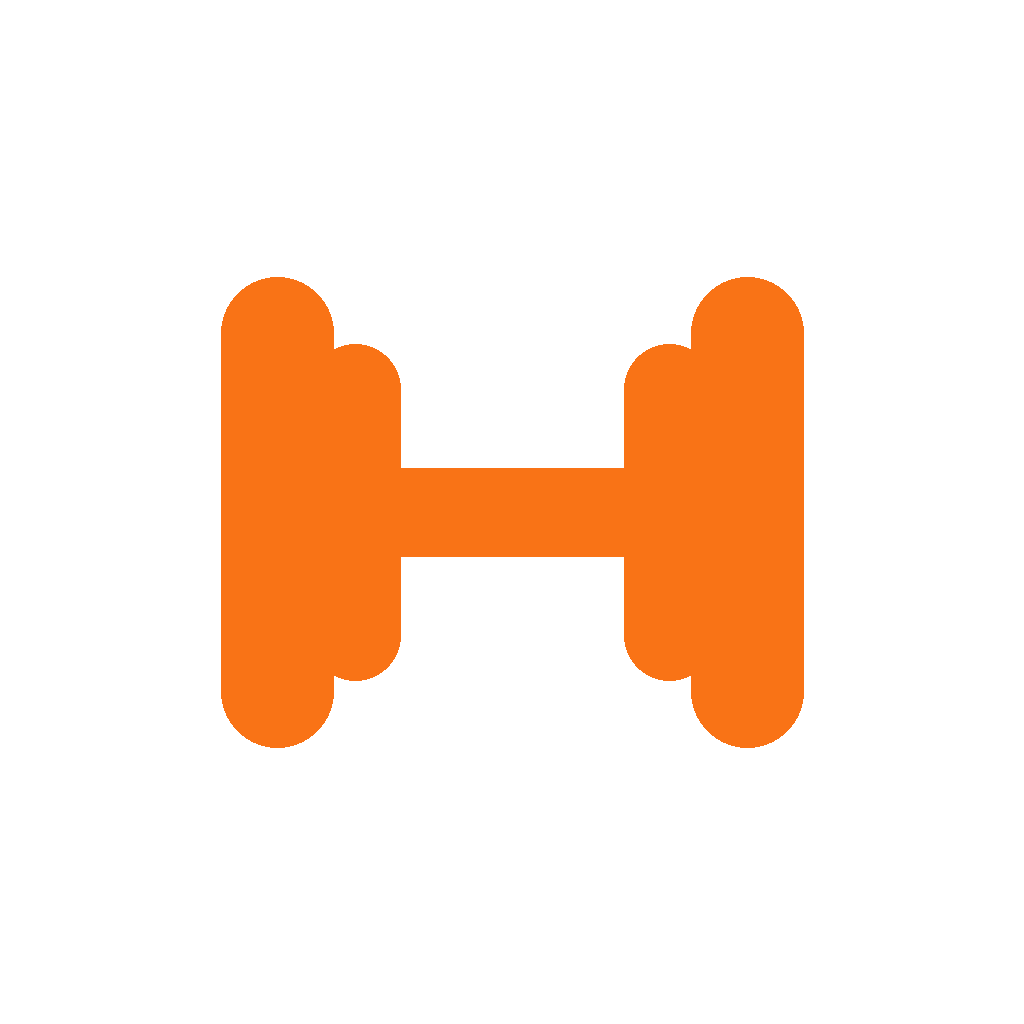
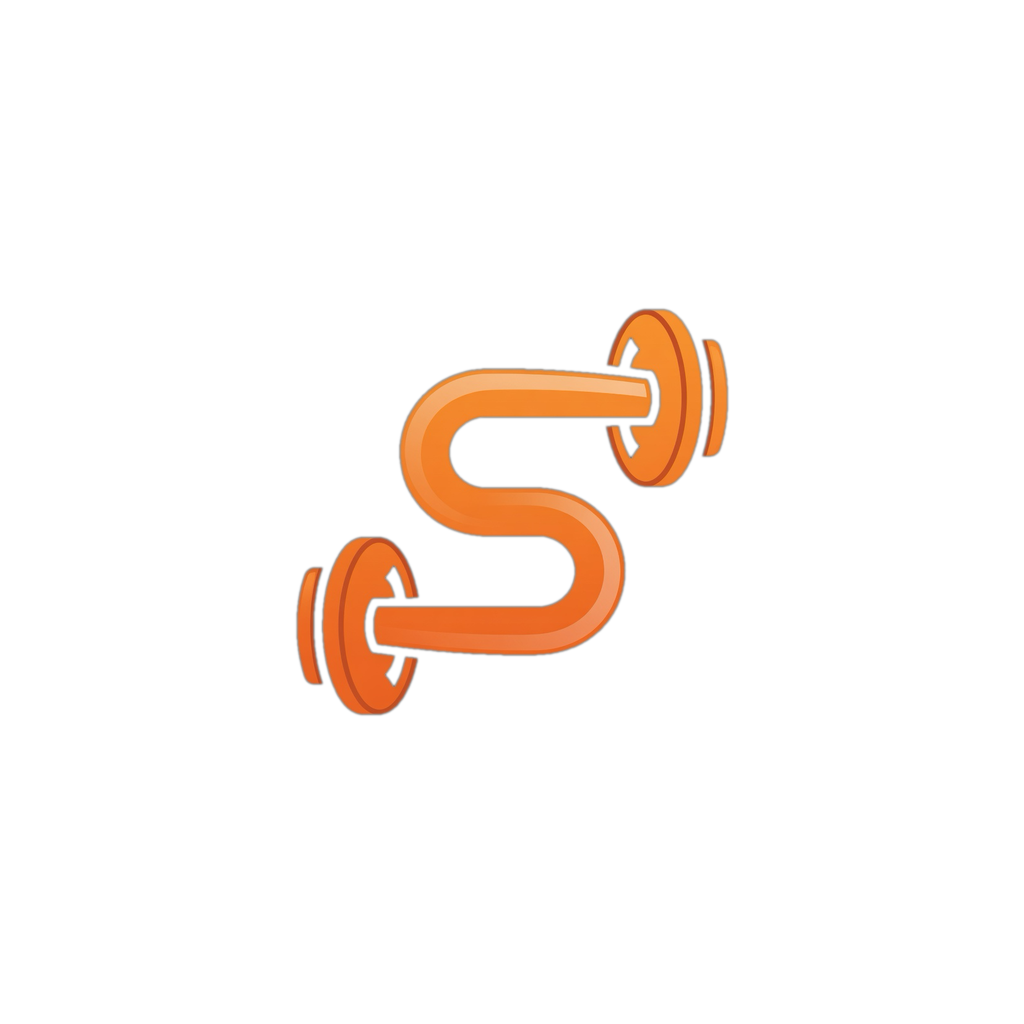
Fix clipped filter chips and add favorites filter to picker
- Give the filter chip row a bounded height so chips render fully
- Heart toggle in the exercise picker filters to favorited exercises
- New app icon: barbell-S mark generated via grok, adaptive icon set

Generated with [Devin](https://devin.ai)

Changed region(s): [[0.2188, 0.25, 0.8125, 0.75]]

diff --git a/app/src/app/picker.tsx b/app/src/app/picker.tsx
@@ -2,7 +2,7 @@ import React, { useMemo, useState } from 'react';
 import { FlatList, Pressable, StyleSheet, Text, TextInput, View } from 'react-native';
 import { useLocalSearchParams, useRouter } from 'expo-router';
 import { useSafeAreaInsets } from 'react-native-safe-area-context';
-import { ChevronRight, Plus, Search, X } from 'lucide-react-native';
+import { ChevronRight, Heart, Plus, Search, X } from 'lucide-react-native';
 import { EXERCISES, getExercise, searchExercises, type Exercise } from '../data/exercises';
 import { BODY_PART_TR, EQUIPMENT_TR, tr } from '../data/labels';
 import type { RoutineExercise } from '../data/programs';
@@ -15,13 +15,18 @@ export default function PickerScreen() {
   const params = useLocalSearchParams<{ mode?: string; exerciseId?: string }>();
   const insets = useSafeAreaInsets();
   const router = useRouter();
-  const { customRoutines, saveCustomRoutine, setPendingPick, restSec } = useAppStore();
+  const { customRoutines, saveCustomRoutine, setPendingPick, restSec, favorites } = useAppStore();
   const [query, setQuery] = useState('');
+  const [favOnly, setFavOnly] = useState(false);
 
   const mode = params.mode ?? 'pick';
   const sourceExercise = params.exerciseId ? getExerciseSafe(params.exerciseId) : null;
 
-  const results = useMemo(() => searchExercises(query, {}), [query]);
+  const results = useMemo(() => {
+    let list = searchExercises(query, {});
+    if (favOnly) list = list.filter((e) => favorites.includes(e.id));
+    return list;
+  }, [query, favOnly, favorites]);
 
   const onPickExercise = (e: Exercise) => {
     if (mode === 'pick') {
@@ -96,18 +101,35 @@ export default function PickerScreen() {
         />
       ) : (
         <>
-          <View style={styles.searchBox}>
-            <Search color={colors.textDim} size={18} />
-            <TextInput
-              style={styles.searchInput}
-              placeholder="Egzersiz ara..."
-              placeholderTextColor={colors.textDim}
-              value={query}
-              onChangeText={setQuery}
-              autoCapitalize="none"
-              autoFocus
-            />
+          <View style={styles.searchRow}>
+            <View style={styles.searchBox}>
+              <Search color={colors.textDim} size={18} />
+              <TextInput
+                style={styles.searchInput}
+                placeholder="Egzersiz ara..."
+                placeholderTextColor={colors.textDim}
+                value={query}
+                onChangeText={setQuery}
+                autoCapitalize="none"
+                autoFocus
+              />
+              {query.length > 0 && (
+                <Pressable onPress={() => setQuery('')} accessibilityLabel="Temizle">
+                  <X color={colors.textDim} size={16} />
+                </Pressable>
+              )}
+            </View>
+            <Pressable
+              style={[styles.favToggle, favOnly && { backgroundColor: colors.dangerSoft, borderColor: colors.danger }]}
+              onPress={() => setFavOnly((v) => !v)}
+              accessibilityLabel="Sadece favoriler"
+            >
+              <Heart color={favOnly ? colors.danger : colors.textMuted} size={18} fill={favOnly ? colors.danger : 'none'} />
+            </Pressable>
           </View>
+          {favOnly && favorites.length === 0 && (
+            <Text style={styles.favHint}>Henüz favori egzersizin yok — egzersiz listesinde kalbe dokunarak ekleyebilirsin.</Text>
+          )}
           <FlatList
             data={results}
             keyExtractor={(e) => e.id}
@@ -167,7 +189,9 @@ const styles = StyleSheet.create({
     alignItems: 'center',
     justifyContent: 'center',
   },
+  searchRow: { flexDirection: 'row', gap: spacing.sm, alignItems: 'center', marginBottom: spacing.md },
   searchBox: {
+    flex: 1,
     flexDirection: 'row',
     alignItems: 'center',
     gap: spacing.sm,
@@ -177,8 +201,18 @@ const styles = StyleSheet.create({
     borderColor: colors.border,
     paddingHorizontal: spacing.md,
     height: 48,
-    marginBottom: spacing.md,
   },
+  favToggle: {
+    width: 48,
+    height: 48,
+    borderRadius: radius.lg,
+    borderWidth: 1,
+    borderColor: colors.border,
+    backgroundColor: colors.card,
+    alignItems: 'center',
+    justifyContent: 'center',
+  },
+  favHint: { fontFamily: fonts.body, fontSize: 12, color: colors.textDim, marginBottom: spacing.md },
   searchInput: { flex: 1, color: colors.text, fontFamily: fonts.body, fontSize: 15 },
   row: {
     flexDirection: 'row',

diff --git a/app/src/app/(tabs)/exercises.tsx b/app/src/app/(tabs)/exercises.tsx
@@ -294,7 +294,7 @@ const styles = StyleSheet.create({
     alignItems: 'center',
     justifyContent: 'center',
   },
-  chipRow: { marginTop: spacing.md, flexGrow: 0 },
+  chipRow: { marginTop: spacing.md, height: 44 },
   filterChip: {
     flexDirection: 'row',
     alignItems: 'center',
@@ -306,6 +306,7 @@ const styles = StyleSheet.create({
     borderColor: colors.border,
     backgroundColor: colors.card,
     marginRight: spacing.sm,
+    alignSelf: 'center',
   },
   filterChipActive: { backgroundColor: colors.primary, borderColor: colors.primary },
   filterChipLabel: { fontFamily: fonts.body, fontSize: 12, color: colors.textDim },
@@ -316,6 +317,7 @@ const styles = StyleSheet.create({
     gap: 5,
     paddingHorizontal: spacing.md,
     height: 40,
+    alignSelf: 'center',
     borderRadius: radius.full,
     borderWidth: 1,
     borderColor: colors.danger,
